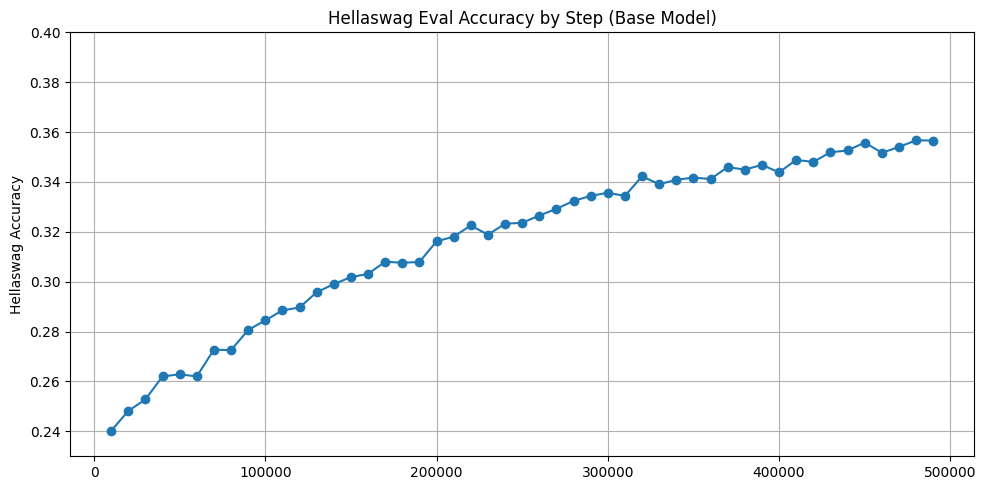
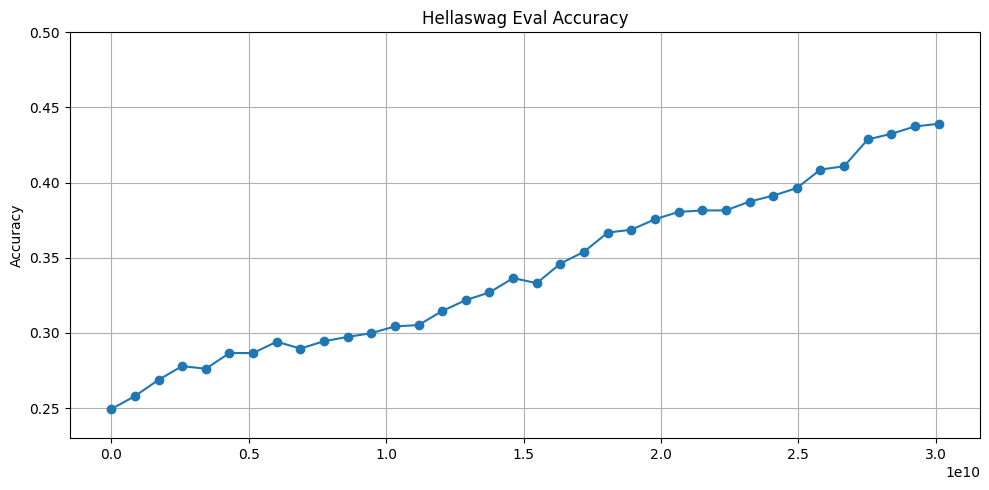
update docs

diff --git a/README.md b/README.md
@@ -16,46 +16,52 @@
 * **Architecture:** GPT-2 Large equivalent (712M Params, 32 layers, 24 heads) with Phi-3 style prompt tokens with GPT2 Tokenizer.
 * **Single GPU:** Trained on a single GPU to save money and make it reproducible for enthusiasts.
 * **Stochastic Sampling:** Random batch sampling during training (vs. sequential) to mitigate domain drift caused by long documents, resulting in a significantly lower validation loss.
-* **Muon Optimizer:** Fasters loss convergence to the use of Muon Optimizer (as used in a [nano-gpt speedrun](https://x.com/kellerjordan0/status/1842300916864844014))
+* **Muon Optimizer:** Fasters loss convergence to the use of Muon Optimizer (as used in [nano-gpt speedrun](https://x.com/kellerjordan0/status/1842300916864844014))
 * **Instruction Tuning:** Fine-tuned on a composite dataset (Raschka + Alpaca-Cleaned) to enable 1-turn conversational capabilities.
-* **Evals:** Quantitative BaseModel eval on HellaSwag.
+* **Evals:** BaseModel eval on HellaSwag.
 
 
 
 ## Results
 
-For the base model I achieve ~2.8 cross entropy nats on the validation set, which is a good result and about what we can expect without many advanced tweaks. As we are only training on english educational content, our dataset is fairly homogeneous compared to multilanguage datasets. If we were to train on something like FineWeb-Edu2 (the multilingual version) or OpenWebText, we would expect a higher loss.
+### Base Model
 
-![Loss Curves](/report/images/train-loss.png)
+For the base model I achieve ~2.65 cross entropy nats on the validation set, which is a good result and about what we can expect without many advanced tweaks or a lot more compute time. As we are only training on english educational content, our dataset is fairly homogeneous compared to multilanguage datasets. If we were to train on something like FineWeb-Edu2 (the multilingual version) or OpenWebText, we would expect a higher loss.
 
-Every 10k steps I also evaluate the HellaSwag accuracy of the base model, which takes the logits of all responses (given the input) and evaluates which one is the most likely. The model scores ~35.8% which is significantly better than random guessing (=25%). Instruction finetuned version will follow.
+![Base training overview](/report/images/base-train-overview.png)
+
+The initial run was run with about 22B tokens, however after around 20B I observed a loss plateau. The loss plateau was acommpanied with strongly rising norms. To break through this plateau, the training continued with another 8B tokens, while learning rate was phased out to 0 (using cosine annealing schedule) and clipping the norms at 0.5 rather than 1.0. A correcting weight decay or even just a weight decaying schedule could improve this issue in future runs, as described by [Defazio 2025](https://arxiv.org/abs/2506.02285v2).
+
+Every 10k steps I also evaluate the HellaSwag accuracy of the base model, which takes the logits of all responses (given the input) and evaluates which one is the most likely. The model scores ~44% which is significantly better than random guessing (=25%).
 
 ![HellaSwag Base Model](/report/images/hellaswag-base.png)
 
-### Sample Outputs
-
-#### Base Model
+#### Sample Outputs
 
 The table below shows how the sample outputs evolved with the steps of training. You can see that the model learns rough grammar and does not mix up tokens that don't go together (for the most part). It also starts to stick to semantic topics better. The input text is "Once upon a time" after which the model generates the rest.
 
 | Step | Output |
 |------|--------|
-| 0    | _Once upon a time_ Once upon a timeLittle generally Libre affection torment Saga sword tributeerredarez QBraz fmt repeatedREPcade Geralomical Fiat ACTION situ RVvant advisors escalation screenshot Lines Issa randomly Improveashi Strip[/pi thesis oppressionRussiact demographics1965 refuel degridor |
-| 100'000 | _Once upon a time_ whereas Pluto is ramping up its backyard, it will be astonishing achievements, but the world is not yet at this point. To see them, check out the Moon's satellite images below: You can see moons in all four picture books. |
-| 250'000 | _Once upon a time_, a wealthy man buried his sons and daughters in woodland, farming geometric patterns, thus creating the food pattern I am after today. More than that, I want you to know to sacrifice your health (I fire you), beauty (II fire you) |
-| 400'000  | _Once upon a time_, there was one man lurking in a hedge. In those days, there was a very big storm. It was a really cold day. Even with the weather so dangerous, there was only a few people who could stay awake |
-| 500'000  | _Once upon a time_, there were three. One was alive, but a describes how he lives or moves around. There in the Evergreen state there lived a man who lived out his days, coming to the promise of happiness. But he pondered on how he connected |
+| 0    | _Once upon a time_ toolbar utterlyatti picked picked appropriations utterlyTex kickedatti addressingGR conflicting point conflictingumph distributingidential picked Berkeley inequalityspective identificationNation |
+| 100'000 | _Once upon a time_-dependent process in which the user moves to a position in a file, an array containing the object is called a buffer. The buffer is the part of the file that contains the file. |
+| 200'000 | _Once upon a time_, before anyone knew any better than the man to which he has contributed, he had the audacity of saying that he was in charge of the whole universe and that he did not want to leave the universe. |
+| 350'000  | _Once upon a time_, there was a man named Peter. He had a very big house with a garden and a big farm. He grew vegetables all year long and kept some cows as well. Peter was a very rich man. He had lots of money to pay for his ... |
 
-#### Instruction Finetuned Model
 
-Pre finetuning the model has no understanding of question-answering or assistant style conversation. The autocomplete outputs look like this:
+### Instruction Finetuned Model
+
+Pretraining on the smol-smoltalk, alpaca-cleaned, and rashke datasets converged quickly. A total of YYY prompt - response pairs were used, where I only kept pairs where both prompt and response were shorter than 300 tokens max.
+
+The loss convergence of the instruction finetuning is, unsurprisingly, much faster and the final loss much lower.
+
+<!-- Pre finetuning the model has no understanding of question-answering or assistant style conversation. The autocomplete outputs look like this:
 
 | Prompt | Output |
 |--------|--------|
 | What is the capital of France? |  - it is the largest French Banknote yet notes are mint in - The IMF estimates France’s ... |
-| What is 2 + 2 | 2-2 (two-think french question book) 2-2 is pronounced as two two or wal-m ... |
+| What is 2 + 2 | 2-2 (two-think french question book) 2-2 is pronounced as two two or wal-m ... | -->
 
-After finetuning the outputs are actually not too bad:
+The example outputs show that the model is able to create proper responses and seems to understand what is expected from it.
 
 | Prompt | Output |
 |--------|--------|
@@ -67,21 +73,19 @@ After finetuning the outputs are actually not too bad:
 | Who wrote 'Romeo and Juliet'? | The book 'Romeo and Juliet' by William Shakespeare was published in 1616. |
 | Summarize the plot of '1984' by George Orwell. | The plot of 1984 is a dystopian novel written by George Orwell. The story is set in the early 1980s and the protagonist, the protagonist, is a young, young person who is caught up in a dark, dreary world. As a result, there are many themes prevalent among the characters, which include betrayal, greed, and a need for power that is out of reach. The events and characters take shape, and the book is set in the future where the protagonist is confronted with a ... |
 
-There is still a lot of room for improvement, but the model generally is able to create proper answers and follow a 1-turn conversation.
-
-As the instruction finetuning data is 1-turn only, the model will generally only be able to awnser one question at a time (somewhat) reliably.
+As (for now) the instruction finetuning data is 1-turn only, the model will generally only be able to awnser one question at a time (somewhat) reliably.
 
 # Implementation Details
 
 FGPT follows the standard GPT-2 Large architecture (decoder-only transformer). It has a 32-layer depth with 24 attention heads and an embedding dimension of 1248. The vocabulary size is padded to 50,304 (the nearest multiple of 64 from the GPT2 tokenizer) and the context length is 1024 (dense attention).
 
-## Base Model Training
+## Pretraining
 
 The first step is training the model on a general text corpus of clean data. Just like Karpathy, I use Huggingface's [FineWeb-Edu](https://huggingface.co/datasets/HuggingFaceFW/fineweb-edu) ataset which is an english-only high-quality text dataset. The dataset is fairly homogeneous, which makes it easier to train on than other commonly used datasets like OpenWebText.
 
 I make some changes to the dataloader functions in comparison to Karpathy's implementation. First, I split the FineWeb-Edu dataset at the document level, ensuring no document appears in both training and validation sets. This prevents data leakage and ensures a clean evaluation. Secondly, I also provide random batches of training data during training, and use a fixed validation batch throughout the training. The randomness of training data helps to avoid domain drift, as the documents of FineWeb-Edu can be very long and therefore the model just starts to memorize certain domains. This random approach was a game changer when trying to get the validation loss under 3.8 nats.
 
-## Instruction Finetuning
+## Supervised Finetuning (Instruction Finetuning)
 
 After the base model is trained, it is fine-tuned on a small instruction dataset so it behaves a bit more like a conversational assistant. The goal here isn’t to reach top performance but to help the model understand short question-answer patterns and simple user instructions.
 
@@ -154,6 +158,8 @@ python src/fgpt/inference.py
 - [HF-Dataset: FineWeb-Edu](https://huggingface.co/datasets/HuggingFaceFW/fineweb-edu)
 - [HF-Dataset: yahma/alpaca-cleaned](https://huggingface.co/datasets/yahma/alpaca-cleaned)
 - [Modded-NanoGPT: Nano GPT training speedruns](https://github.com/KellerJordan/modded-nanogpt)
+- [Defazio 2025: Why Gradients Rapidly Increase Near the End of Training](https://arxiv.org/abs/2506.02285v2)
+- [Liu et al 2025: Muon is Scalable for LLM Training](https://arxiv.org/abs/2502.16982)
 
 # TO DO's
 - ~Core Architecture: GPT-2 Large implementation~
@@ -161,6 +167,6 @@ python src/fgpt/inference.py
 - ~Optimization: FlashAttention integration~
 - ~Optimization: Switch to Muon Optimizer~
 - ~Muon Optimizer: Improve training speed~
-- Scaling: Train on >10B tokens (Chinchilla optimality)
+- ~Scaling: Train on >14B tokens (Chinchilla optimality)~
 - Deployment: HF Spaces demo
-- Alignment: Implement DPO or other RLHF 
+- Alignment: Implement DPO or other RLHF-like adjustment
